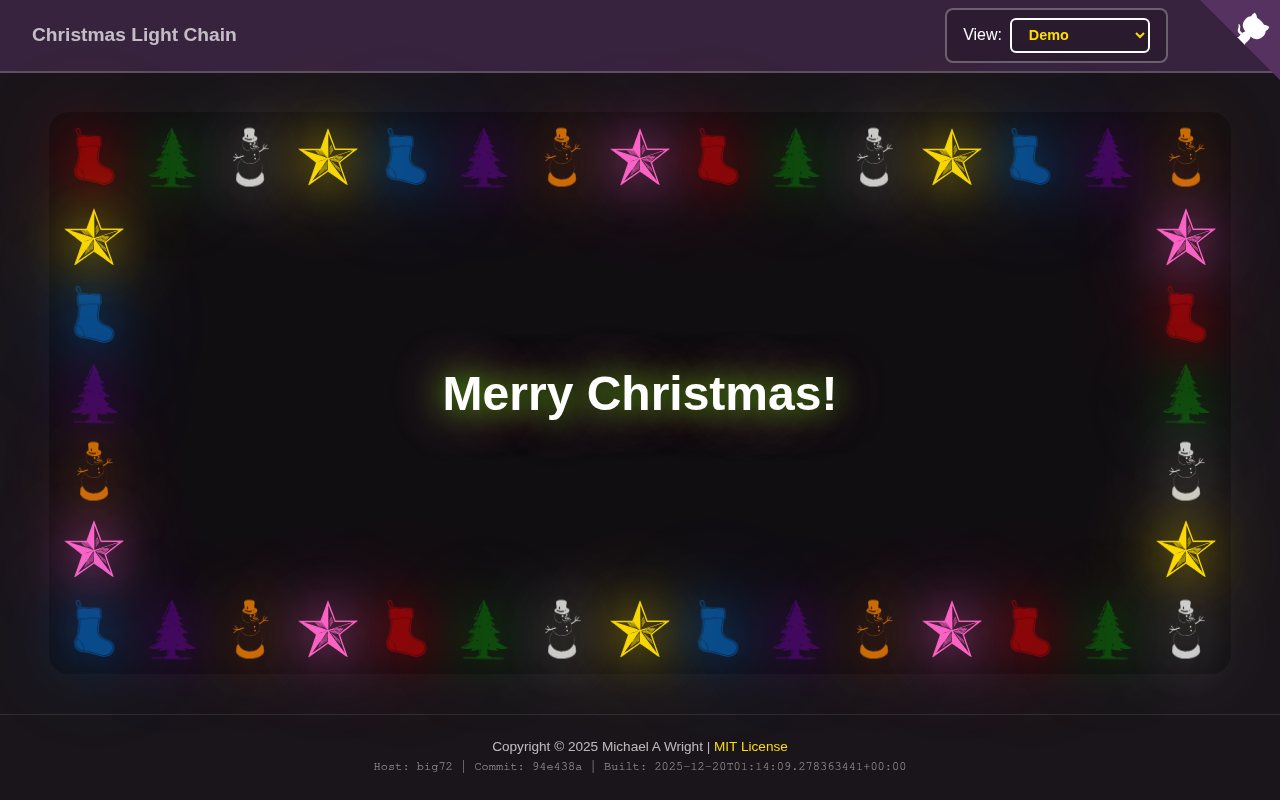
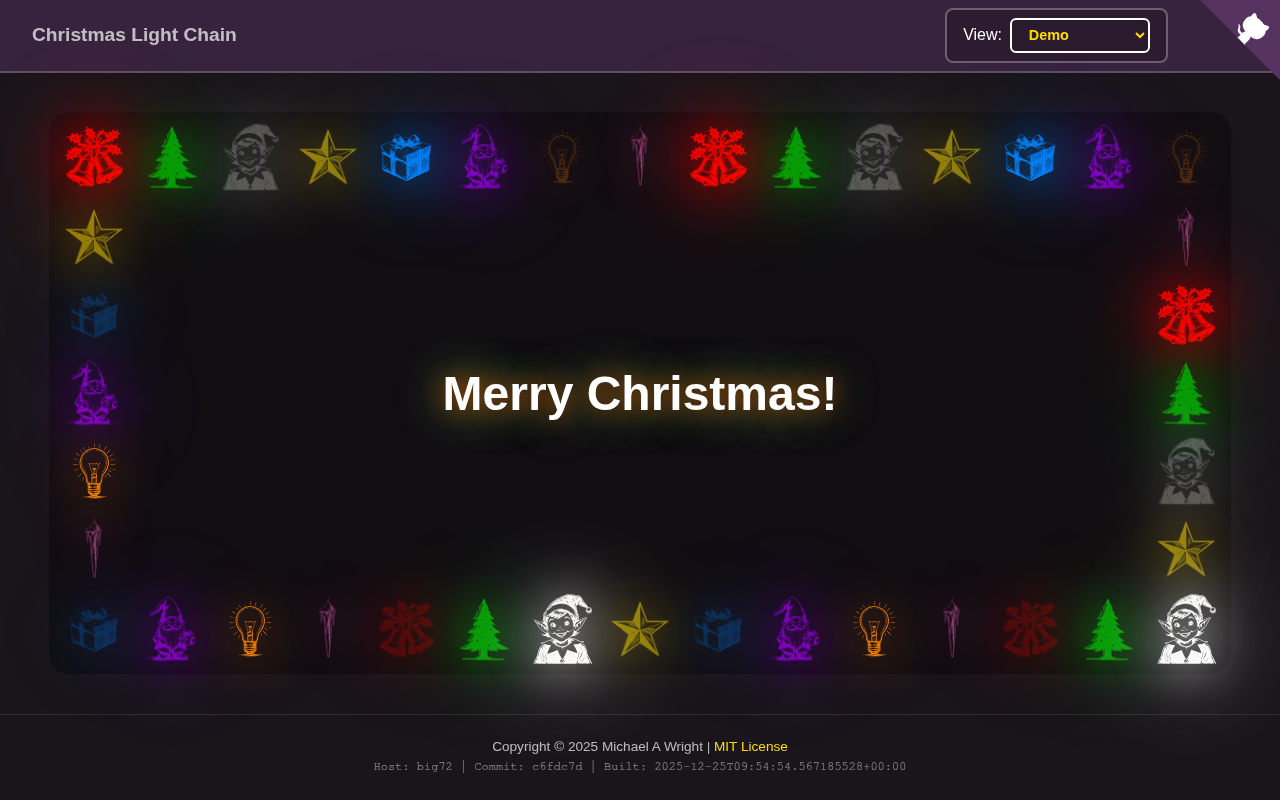
Update README with 7 new shapes and Details view mode
- Update shape count from 13 to 20
- Add Details view mode documentation
- List all 7 new shapes: Bells, Elf, Gift, Gift 2, Gnome, Mistletoe, Ice Skate
- Update screenshot showing new shapes in Demo mode
- Refresh cache busting timestamps

🤖 Generated with [Claude Code](https://claude.com/claude-code)

diff --git a/README.md b/README.md
@@ -1,21 +1,22 @@
 # Christmas Light Chain - Rust/Yew Implementation
 
-A Rust implementation of a customizable Christmas light chain animation using the Yew framework. Build your own festive light display with 13 unique SVG shapes, multiple color modes, and various animation effects.
+A Rust implementation of a customizable Christmas light chain animation using the Yew framework. Build your own festive light display with 20 unique SVG shapes, multiple color modes, and various animation effects.
 
-**[🎄 Live Demo](https://softwarewrighter.github.io/xmas-rs/?ts=1766245781230)**
+**[🎄 Live Demo](https://softwarewrighter.github.io/xmas-rs/?ts=1766708169314)**
 
 ## Screenshot
 
-![Christmas Lights Demo](./images/screenshot.png?ts=1766245781230)
+![Christmas Lights Demo](./images/screenshot.png?ts=1766708169314)
 
 ## Features
 
 ### View Modes
 - **Settings Mode** - Configure all light options and preview your chain
 - **Demo Mode** - Display a custom Christmas message framed by 40 animated lights (15 top/bottom, 5 on each side)
+- **Details Mode** - View all available shapes and their names in a grid layout
 
 ### Light Chain Builder
-- **13 unique Christmas shapes**: Stocking, Christmas Tree, Snowman, Star, Reindeer, Snowflake, Light Bulb, Icicle, Candy Cane, Ornament, Santa's Sleigh, and Wreath
+- **20 unique Christmas shapes**: Stocking, Christmas Tree, Snowman, Star, Reindeer, Snowflake, Light Bulb, Icicle, Candy Cane, Ornament, Snowman 2, Santa's Sleigh, Wreath, Bells, Elf, Gift, Gift 2, Gnome, Mistletoe, and Ice Skate
 - **Chain selection modes**:
   - 1 Image (Repeat) - Single image repeated 8 times
   - 2 Images (Alternate) - Two images alternating
@@ -127,7 +128,7 @@ The lights use an expanded festive color palette:
 - `src/main.rs` - Main Yew component and application logic
 - `index.html` - HTML template
 - `styles.css` - CSS styles and animations
-- `images/` - SVG Christmas shapes (13 images)
+- `images/` - SVG Christmas shapes (20 images)
 - `svg/` - Legacy SVG templates
 - `scripts/` - Build and development scripts
 - `Cargo.toml` - Rust dependencies
